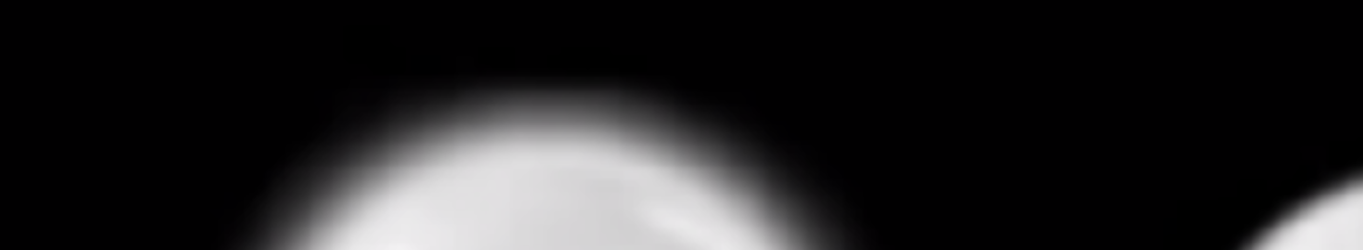
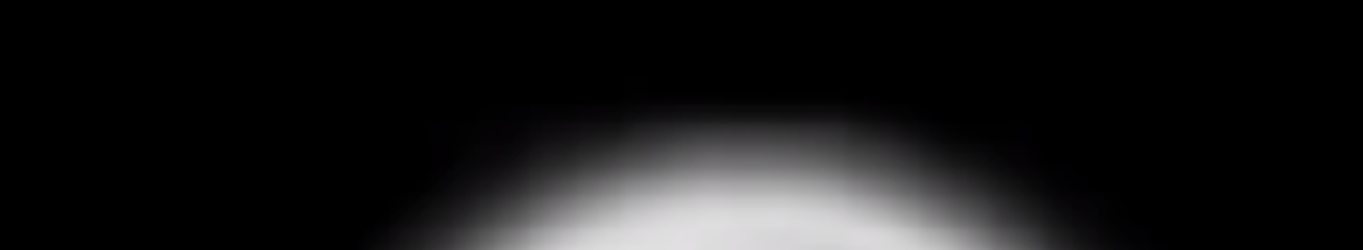
[Jenkins] Updated translation

Changed region(s): [[0.1541, 0.336, 0.8012, 1.0], [0.8936, 0.672, 1.0, 1.0]]

diff --git a/docs/de_DE/changelog.md b/docs/de_DE/changelog.md
@@ -4,6 +4,11 @@
 >
 >Zur Erinnerung: Wenn keine Informationen zum Update vorhanden sind, bedeutet dies, dass es sich nur um die Aktualisierung von Dokumentation, Übersetzung oder Text handelt
 
+# 
+
+- 
+- 
+
 # 22.09.2024
 
 - Es wurde ein Problem beim Neustart des Daemons in der Nacht behoben, das möglicherweise nicht immer korrekt startete
@@ -14,7 +19,7 @@
 
 # 29.06.2024
 
-- Ein Fehler in der Ajax-Ausnahmefunktion wurde behoben.
+- .
 
 # 04/06/2021
 
@@ -27,22 +32,27 @@
 - Hinzufügung des Tags "V4-Kompatibilität"
 
 # 30.08.2019
+
 - Hinzufügung eines außergewöhnlichen Managements
 
 # 22.08.2019
+
 - Zugabe von Tivoo Divoom
 - Kleinere Verbesserungen
 
 # 19.08.2019
+
 - Hinzufügen einer Nachricht, um zu überlegen, ob die API-Ebene in Jeedom geändert werden soll, wenn Sie Antennen verwenden
-- Hinzufügen einiger DIVOOM-Geräte (beachten Sie, dass für sie ein Neustart der Abhängigkeiten erforderlich ist). Ich füge es nicht in die Abhängigkeitssteuerung ein, da es sich nur um bestimmte Abhängigkeiten für sie handelt, sodass nicht jeder gezwungen werden muss, die Abhängigkeiten neu zu starten)
+- Hinzufügen einiger DIVOOM-Geräte (beachten Sie, dass für sie ein Neustart der Abhängigkeiten erforderlich ist). Ich füge es nicht in die Abhängigkeitssteuerung ein, da es sich nur um bestimmte Abhängigkeiten für sie handelt, sodass nicht jeder gezwungen werden muss, die Abhängigkeiten neu zu starten
 - Hinzufügen von Batteriestand auf Cleargrass
 - Kleinere Verbesserungen
 
 # 30.07.2019
+
 - Korrektur eines Fehlers auf dem Dotti im Zusammenhang mit dem Übergang zu Python3
 
 # 29.07.2019
+
 - Moll behoben
 - Trennung unbekannter Geräte auf der Geräteseite
 - Möglichkeit, alle unbekannten Geräte mit einem Klick zu löschen (nur diejenigen, die keinem Objekt zugewiesen sind)
@@ -50,6 +60,7 @@
 - Allgemeine Verbesserungen
 
 # 20.07.2019
+
 - Methodenänderung für den gesamten Playbulb-Bereich (nur ein Conf und Visuals) mehr Abhängigkeiten im Vergleich zu den verschiedenen Versionen (jetzt bei der Aufnahme stellen wir die Adressen der verschiedenen Methoden wieder her)
 - Zugabe von miscal V2 mit Gewicht und Impedanz (und einer ganzen Reihe berechneter Maße). Benutzerverwaltung für Berechnungen (in der erweiterten Konfigurationsschaltfläche)
 - Änderung von miscal V1 (es wird notwendig sein, die Benutzer neu zu erstellen), aber wir erhalten einige weitere Informationen
@@ -76,6 +87,7 @@
 - Möglichkeit, genau den Produkttyp auszuwählen, der während eines Scans aufgenommen werden soll (mit der Möglichkeit, alle auszuwählen)
 
 # 26.06.2019
+
 - Hinzufügen des Xiaomi Cleargrass
 - Zugabe von Xiaomi lywsd02
 - Beginn des dynamischen Modellmanagements

diff --git a/docs/pt_PT/changelog.md b/docs/pt_PT/changelog.md
@@ -4,6 +4,11 @@
 >
 >Como lembrete, se não houver informações sobre a atualização, isso significa que se trata apenas da atualização da documentação, tradução ou texto
 
+# 
+
+- 
+- 
+
 # 22/09/2024
 
 - Corrigido um problema ao reiniciar o daemon à noite, que nem sempre reiniciava corretamente
@@ -14,7 +19,7 @@
 
 # 29/06/2024
 
-- Corrigido um bug na função de exceção do ajax.
+- .
 
 # 06/04/2021
 
@@ -27,22 +32,27 @@
 - Adição da tag "compatibilidade V4"
 
 # 30/08/2019
+
 - Adição de gestão excepcional
 
 # 22/08/2019
+
 - Adição de Tivoo Divoom
 - Pequenas melhorias
 
 # 19/08/2019
+
 - Adição de uma mensagem para pensar em alterar o nível da API no Jeedom se você usar antenas
-- Adição de alguns dispositivos DIVOOM (observe que eles exigem um relançamento de dependências). Eu não o adiciono no controle de dependência, porque essas são apenas dependências específicas para eles, portanto, não é necessário forçar todos a reiniciar as dependências)
+- Adição de alguns dispositivos DIVOOM (observe que eles exigem um relançamento de dependências). Eu não o adiciono no controle de dependência, porque essas são apenas dependências específicas para eles, portanto, não é necessário forçar todos a reiniciar as dependências
 - Adição do nível da bateria no capim claro
 - Pequenas melhorias
 
 # 30/07/2019
+
 - Correção de um bug no dotti vinculado à transição para python3
 
 # 29/07/2019
+
 - Menor fixo
 - Separação de dispositivos desconhecidos na página do equipamento
 - Capacidade de excluir todos os dispositivos desconhecidos em um clique (apenas aqueles não atribuídos a um objeto)
@@ -50,6 +60,7 @@
 - Melhorias gerais
 
 # 20/07/2019
+
 - Mudança de método para todo o intervalo de playbulb (apenas um conf e recursos visuais) mais dependências em comparação com as diferentes versões (agora na inclusão, recuperamos os endereços dos diferentes métodos)
 - Adição de miscal V2 com peso e impedância (e várias medidas calculadas). Gerenciamento de usuários para cálculos (no botão de configuração avançada)
 - Alteração do miscal V1 (será necessário recriar os usuários), mas obtemos mais algumas informações
@@ -76,6 +87,7 @@
 - Capacidade de escolher exatamente o tipo de produto a ser incluído durante uma digitalização (com a possibilidade de escolher todas)
 
 # 26/06/2019
+
 - Adicionando o xiaomi cleargrass
 - Adição de Xiaomi lywsd02
 - Início do gerenciamento dinâmico de modelos

diff --git a/docs/es_ES/changelog.md b/docs/es_ES/changelog.md
@@ -4,6 +4,11 @@
 >
 >Como recordatorio si no hay información sobre la actualización, significa que solo se refiere a la actualización de documentación, traducción o texto
 
+# 
+
+- 
+- 
+
 # 22/09/2024
 
 - Se solucionó un problema al reiniciar el demonio por la noche que no siempre se reiniciaba correctamente
@@ -14,7 +19,7 @@
 
 # 29/06/2024
 
-- Se corrigió un error en la función de excepción ajax.
+- .
 
 # 06/04/2021
 
@@ -27,22 +32,27 @@
 - Adición de la etiqueta "compatibilidad V4"
 
 # 30/08/2019
+
 - Adición de una gestión excepcional
 
 # 22/08/2019
+
 - Adición de Tivoo Divoom
 - Pequeñas mejoras
 
 # 19/08/2019
+
 - Adición de un mensaje para pensar en cambiar el nivel de la API en Jeedom si usa antenas
-- Adición de algunos dispositivos DIVOOM (tenga en cuenta que requieren un relanzamiento de dependencias). No lo agrego en el control de dependencias porque son solo dependencias específicas para ellos, por lo que no es necesario forzar a todos a relanzar las dependencias)
+- Adición de algunos dispositivos DIVOOM (tenga en cuenta que requieren un relanzamiento de dependencias). No lo agrego en el control de dependencias porque son solo dependencias específicas para ellos, por lo que no es necesario forzar a todos a relanzar las dependencias
 - Adición de nivel de batería en cleargrass
 - Pequeñas mejoras
 
 # 30/07/2019
+
 - Corrección de un error en el dotti vinculado a la transición a python3
 
 # 29/07/2019
+
 - Menor fijo
 - Separación de dispositivos desconocidos en la página del equipo
 - Posibilidad de eliminar todos los dispositivos desconocidos con un solo clic (solo aquellos no asignados a un objeto)
@@ -50,6 +60,7 @@
 - Mejoras generales
 
 # 20/07/2019
+
 - Cambio de método para todo el rango de playbulb (solo una conf y visuales) más dependencias en comparación con las diferentes versiones (ahora en la inclusión recuperamos las direcciones de los diferentes métodos)
 - Adición de miscal V2 con peso e impedancia (y un montón de medidas calculadas). Gestión de usuarios para cálculos (en el botón de configuración avanzada)
 - Cambio de miscal V1 (será necesario recrear a los usuarios) pero obtenemos más información
@@ -76,6 +87,7 @@
 - Posibilidad de elegir exactamente el tipo de producto a incluir durante un escaneo (con la posibilidad de elegir todos)
 
 # 26/06/2019
+
 - Agregar el xiaomi cleargrass
 - Adición de Xiaomi lywsd02
 - Comienzo de la gestión dinámica del modelo

diff --git a/docs/en_US/changelog.md b/docs/en_US/changelog.md
@@ -4,6 +4,11 @@
 >
 >As a reminder if there is no information on the update, it means that it only concerns the updating of documentation, translation or text
 
+# 
+
+- 
+- 
+
 # 09/22/2024
 
 - Fixed an issue where restarting the daemon at night might not always restart correctly
@@ -14,7 +19,7 @@
 
 # 06/29/2024
 
-- Fixed a bug on the ajax exception function.
+- .
 
 # 04/06/2021
 
@@ -27,22 +32,27 @@
 - Addition of the tag "V4 compatibility"
 
 # 08/30/2019
+
 - Addition of exceptional management
 
 # 08/22/2019
+
 - Addition of Tivoo Divoom
 - Minor improvements
 
 # 08/19/2019
+
 - Addition of a message to think of changing the level of the API in Jeedom if you use antennas
-- Addition of some DIVOOM devices (note that they require a relaunch of dependencies). I do not add it in dependency control because these are just specific dependencies for them, so no need to force everyone to relaunch the dependencies)
+- Addition of some DIVOOM devices (note that they require a relaunch of dependencies). I do not add it in dependency control because these are just specific dependencies for them, so no need to force everyone to relaunch the dependencies
 - Addition of battery level on cleargrass
 - Minor improvements
 
 # 07/30/2019
+
 - Correction of a bug on the dotti linked to the transition to python3
 
 # 07/29/2019
+
 - Fixed minor
 - Separation of unknown devices on the equipment page
 - Ability to delete all unknown devices in one click (only those not assigned to an object)
@@ -50,6 +60,7 @@
 - Overall improvements
 
 # 07/20/2019
+
 - Change of method for the entire playbulb range (only one conf and visuals) more dependencies compared to the different versions (now at inclusion we recover the addresses of the different methods)
 - Addition of miscal V2 with weight and impedance (and a whole bunch of calculated measures). User management for calculations (in the advanced config button)
 - Change of miscal V1 (it will be necessary to recreate the users) but we gain some more info
@@ -76,6 +87,7 @@
 - Ability to choose exactly the type of product to include during a scan (with the possibility of choosing all)
 
 # 06/26/2019
+
 - Adding the xiaomi cleargrass
 - Addition of Xiaomi lywsd02
 - Beginning of dynamic model management
